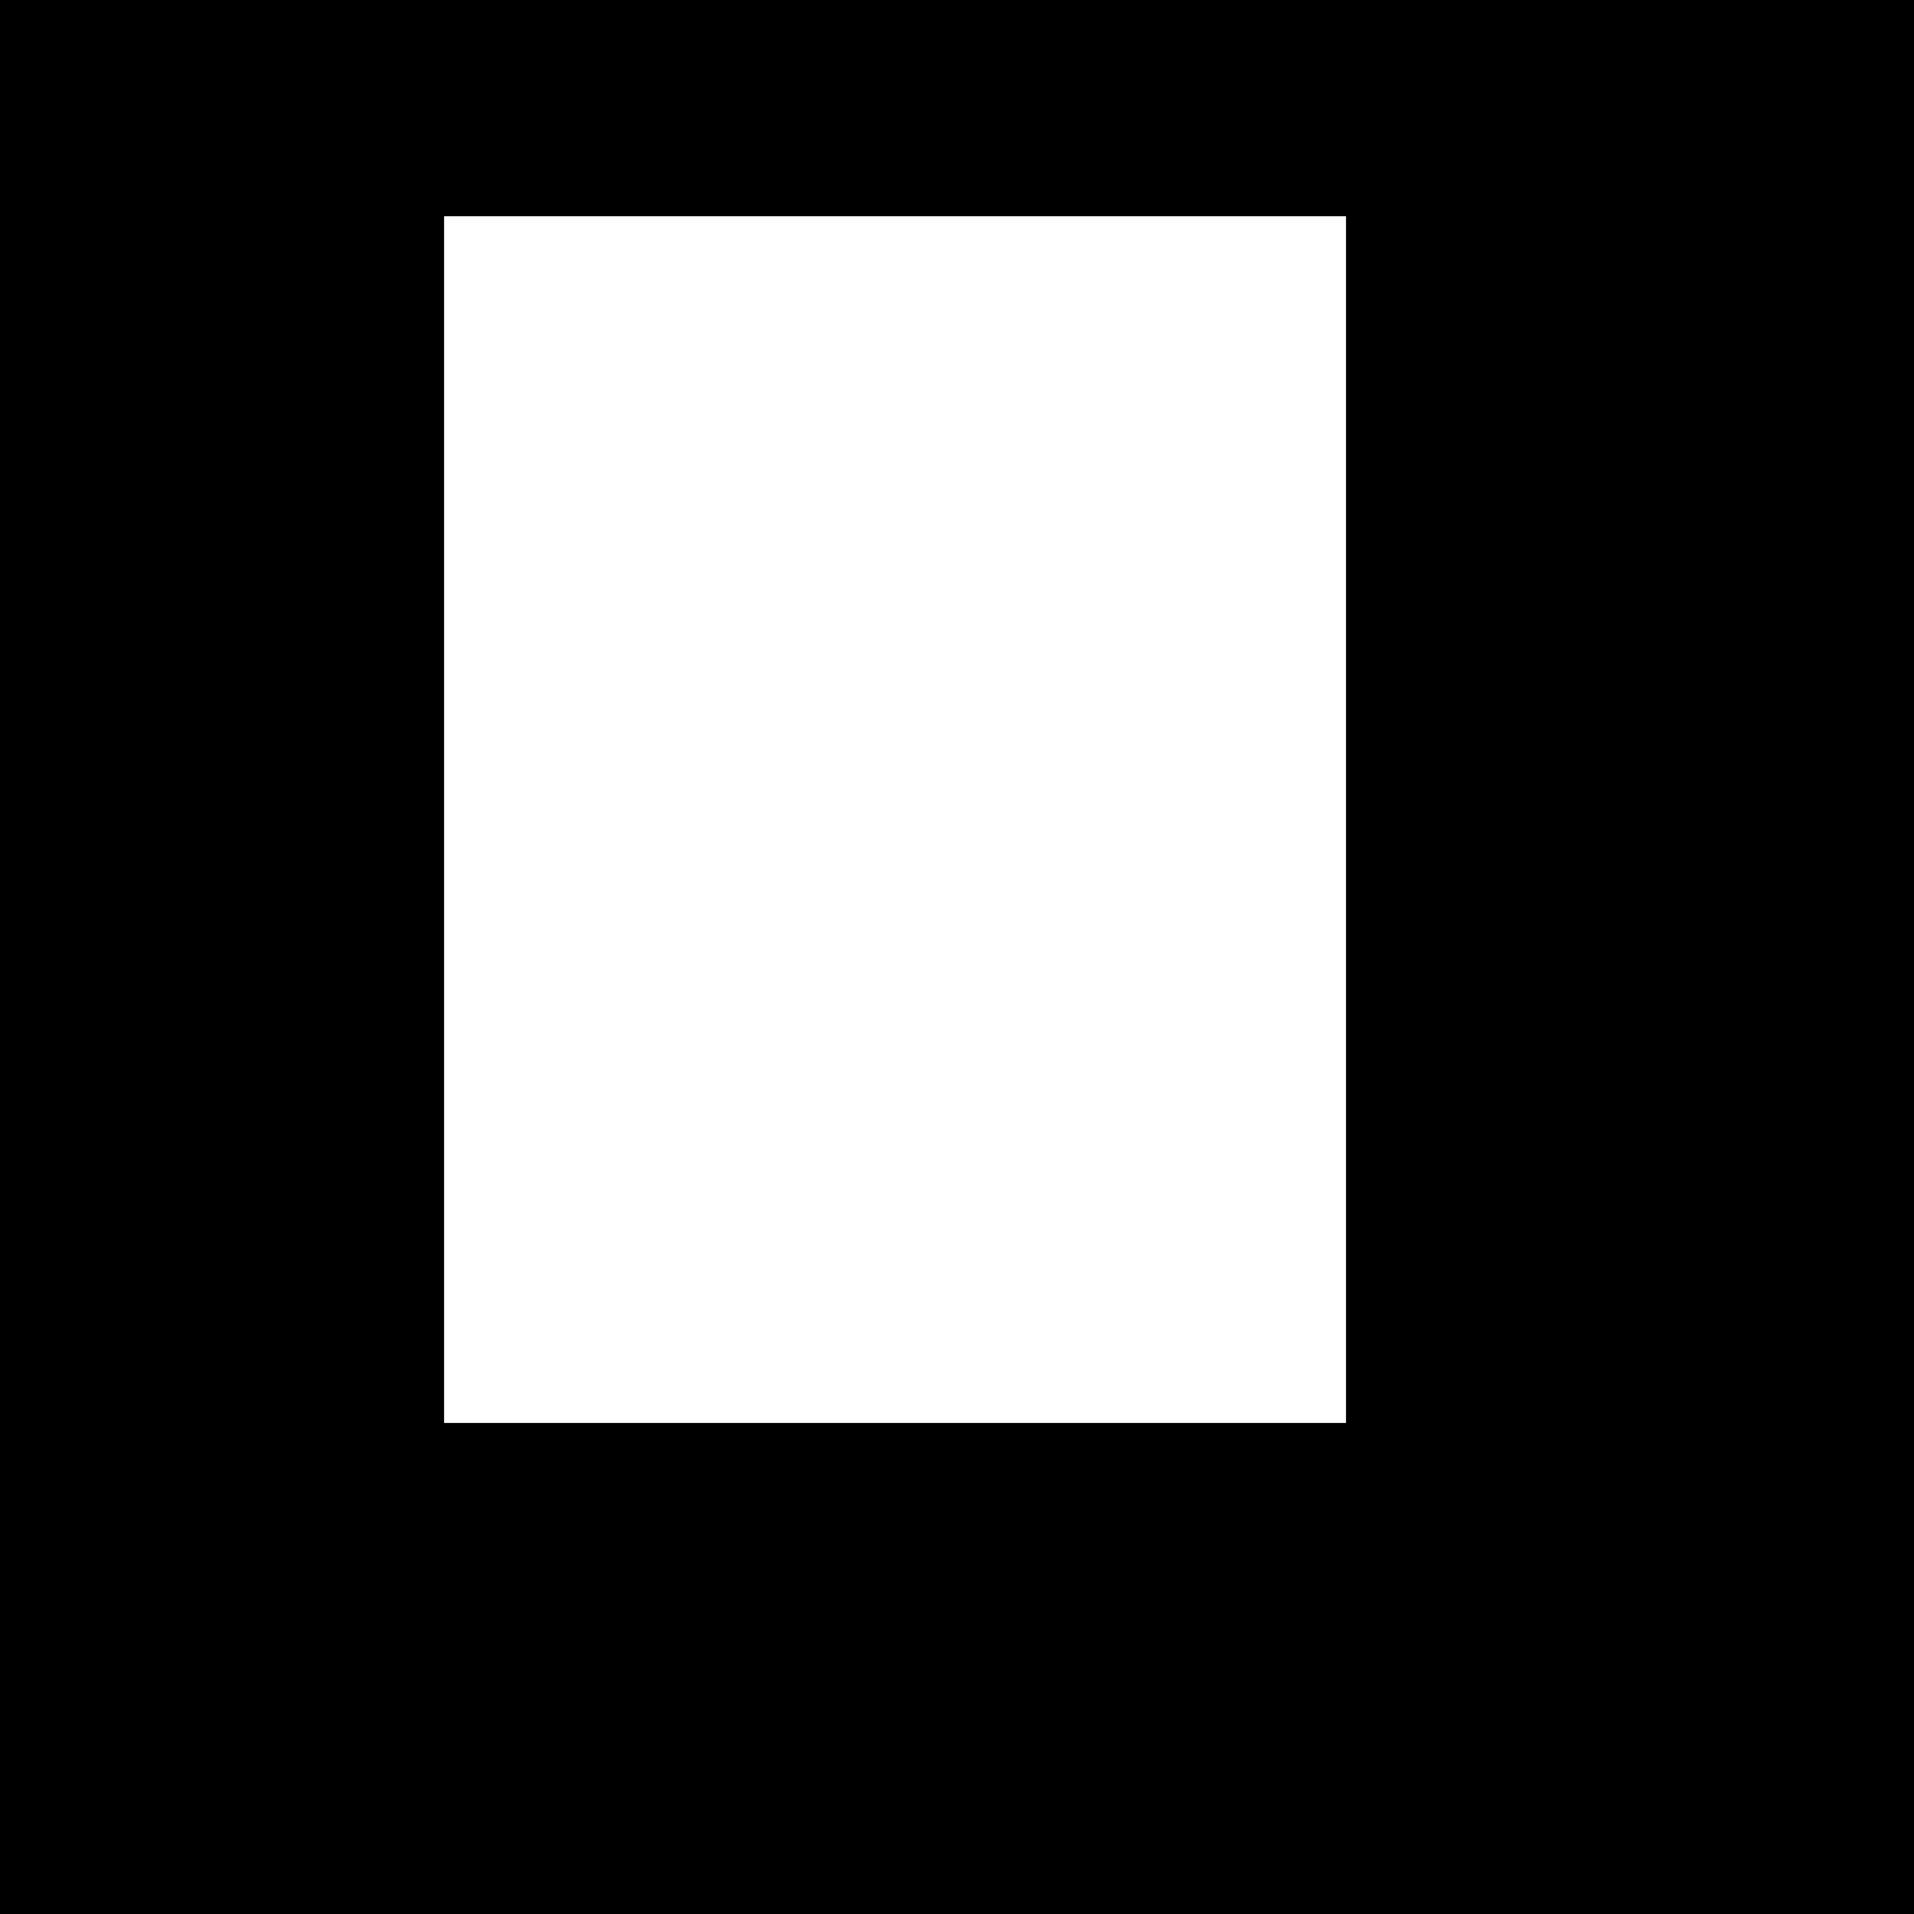
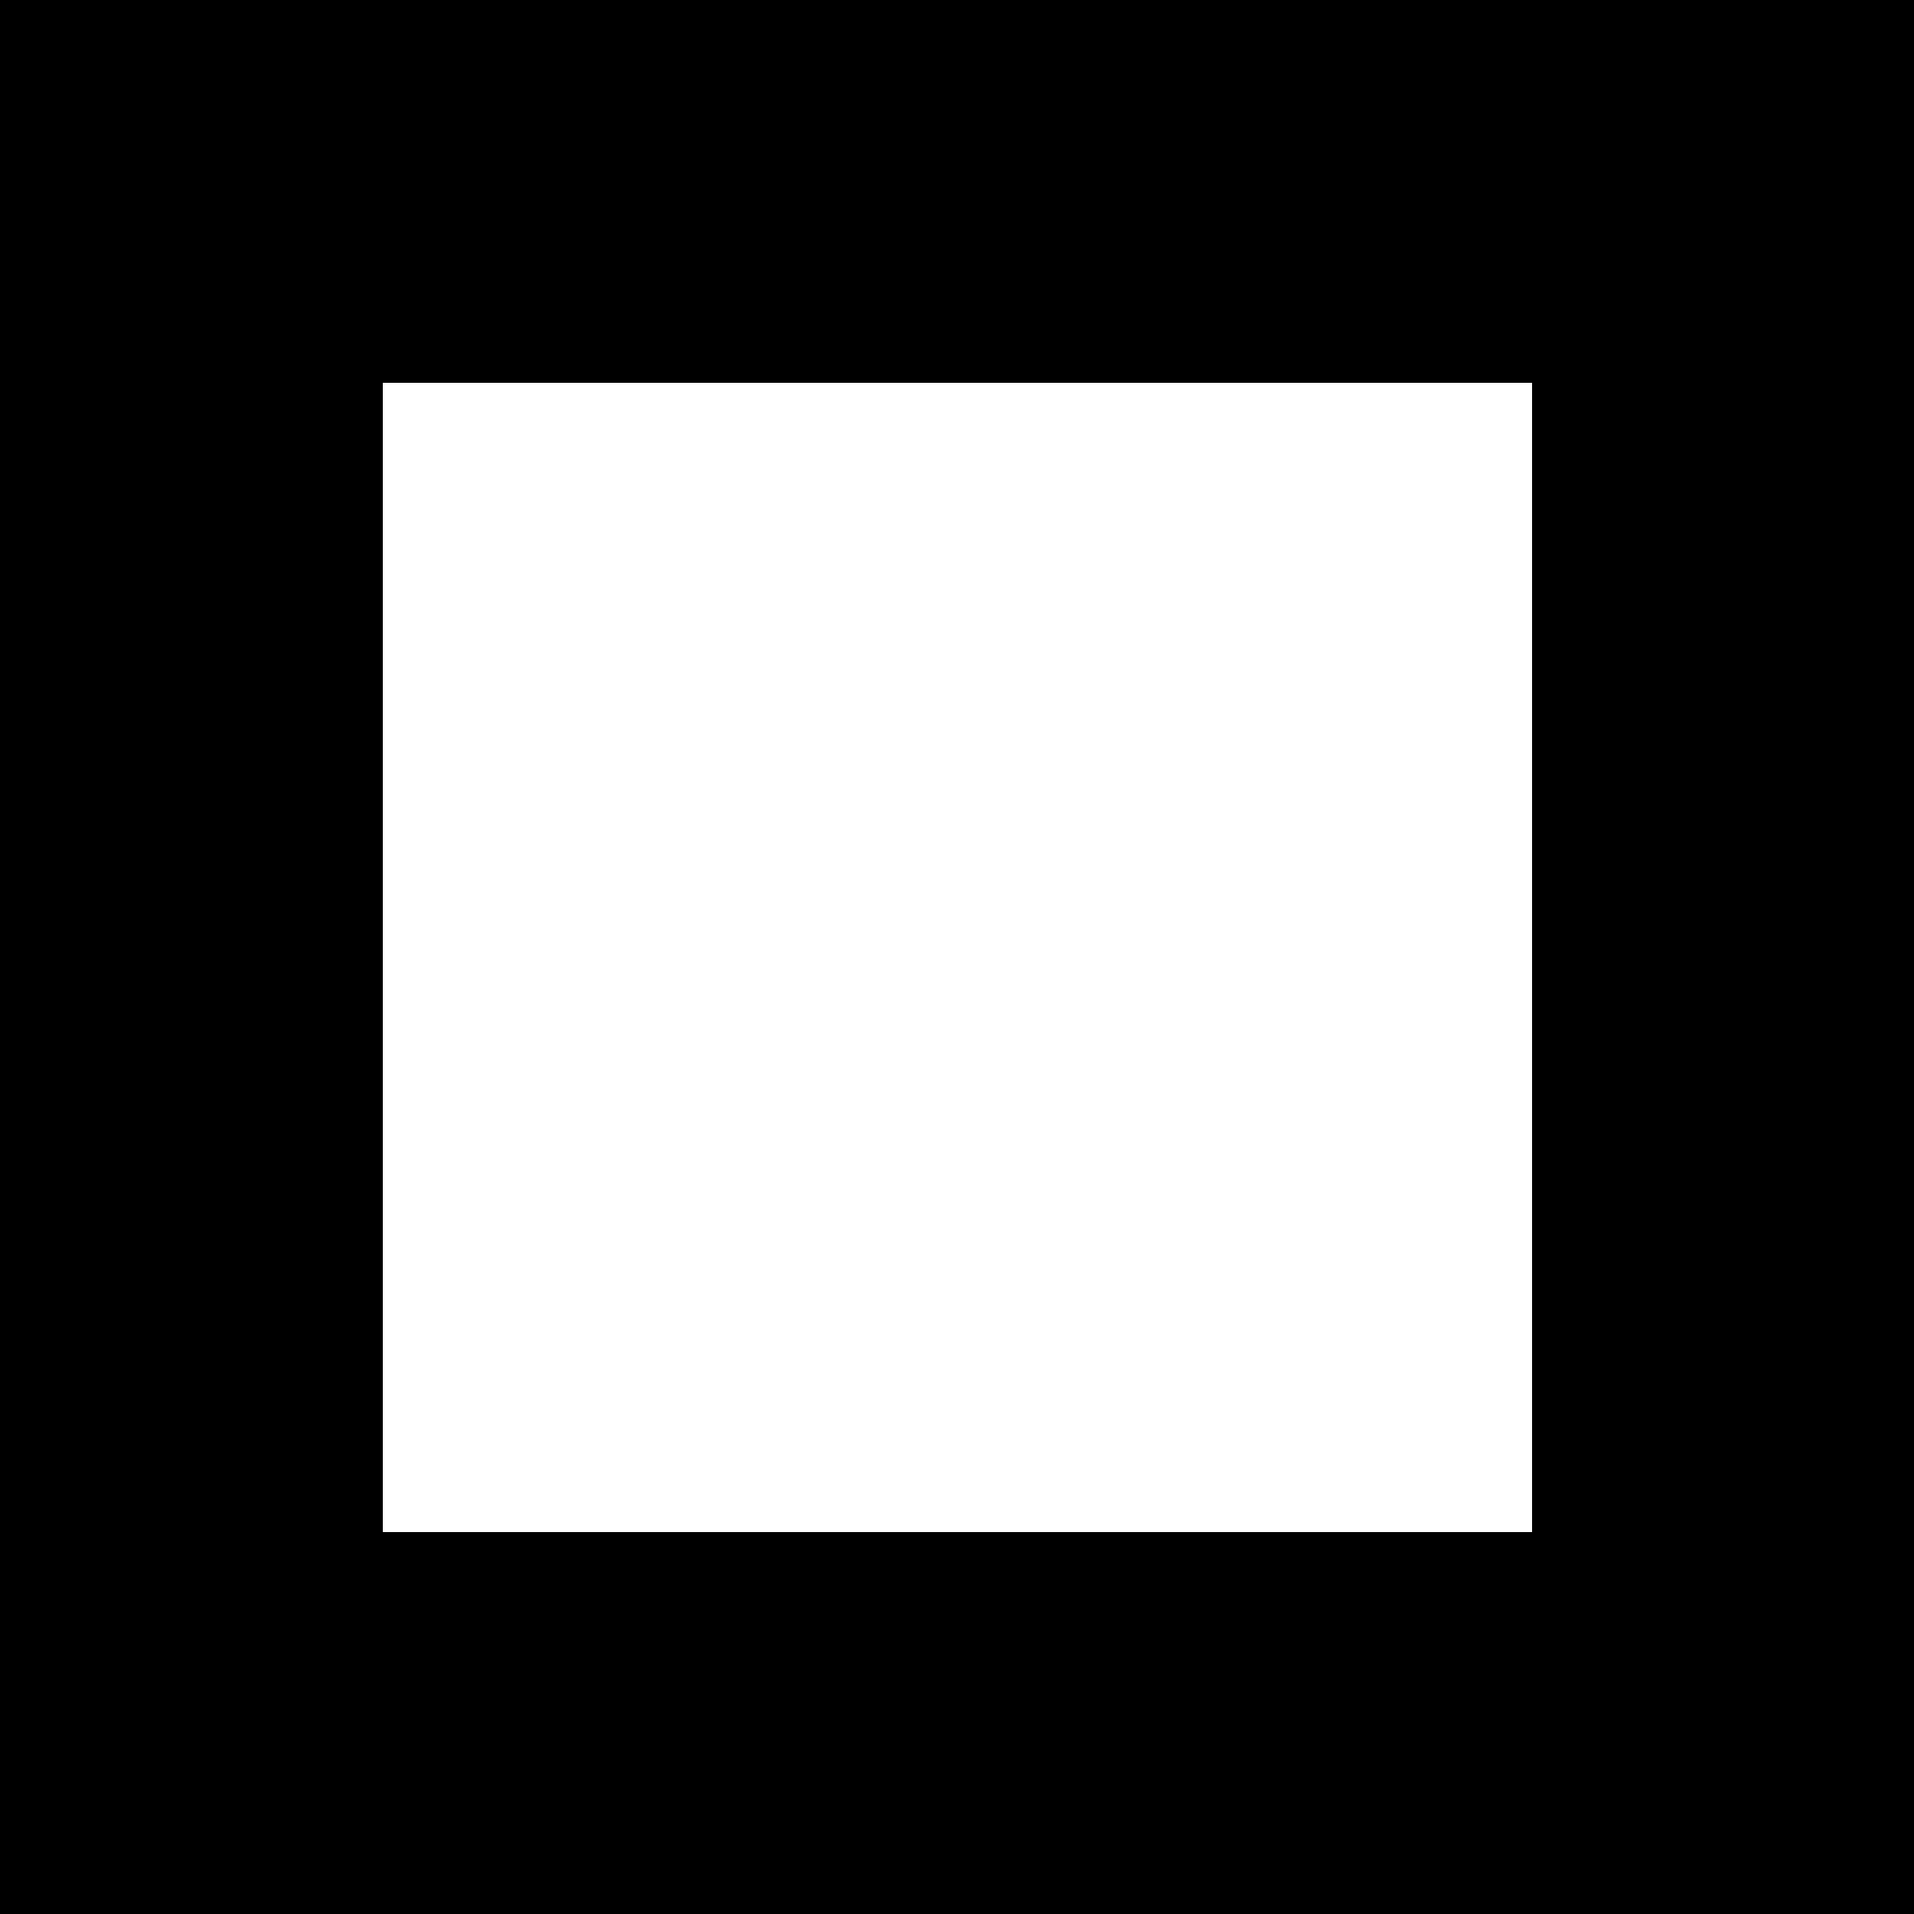
Add mask_generator.py

Changed region(s): [[0.1861, 0.0931, 0.8065, 0.8065]]

diff --git a/mask_generator.py b/mask_generator.py
@@ -1,0 +1,51 @@
+# -*- coding: utf-8 -*-
+
+import sys
+import cv2
+import numpy as np
+import argparse
+
+"""
+もしマニュアルで指定したいならここを編集
+"""
+def manual(manual, height, width):
+
+    pt1 = (0, 0) # 始点 ( x, y )
+    pt2 = (0, 0) # 終点 ( x, y )
+    cv2.rectangle(image, pt1, pt2, (255, 255, 255), -1)
+
+# parse args
+parser = argparse.ArgumentParser(description="mask_gen")
+parser.add_argument("--input", "-i", help="movie file")
+parser.add_argument("--output", "-o", default="mask.png", help="output file name")
+parser.add_argument("--process", "-p", default="center", help="generate option")
+args = parser.parse_args()
+
+# get video
+cap = cv2.VideoCapture(args.input)
+try:
+    width = int(cap.get(cv2.CAP_PROP_FRAME_WIDTH))
+    height = int(cap.get(cv2.CAP_PROP_FRAME_HEIGHT))
+except:
+    sys.stderr.write("Could't open video file.")
+    exit()
+image = np.zeros((height, width), np.uint8)
+
+"""
+処理部
+"""
+if args.process == "center":
+    # 端20%を削る
+    pt1 = (int(width * 0.2), int(height * 0.2))
+    pt2 = (int(width * 0.8), int(height * 0.8))
+    cv2.rectangle(image, pt1, pt2, (255, 255, 255), -1)
+
+elif args.process == "manual":
+    # 関数に移譲
+    manual(image, height, width)
+
+else:
+    sys.stderr.write("Could't match options. Please select process.[center, manual]")
+    exit()
+
+cv2.imwrite(args.output,image)
